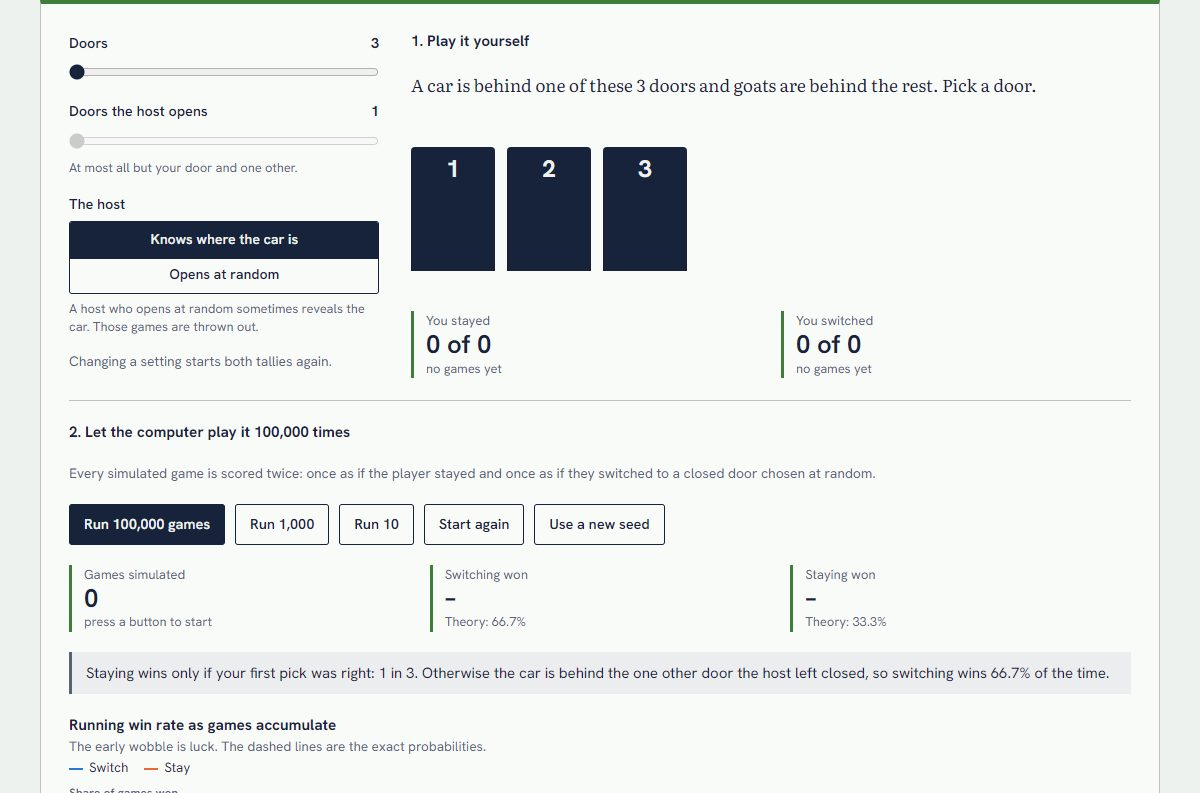
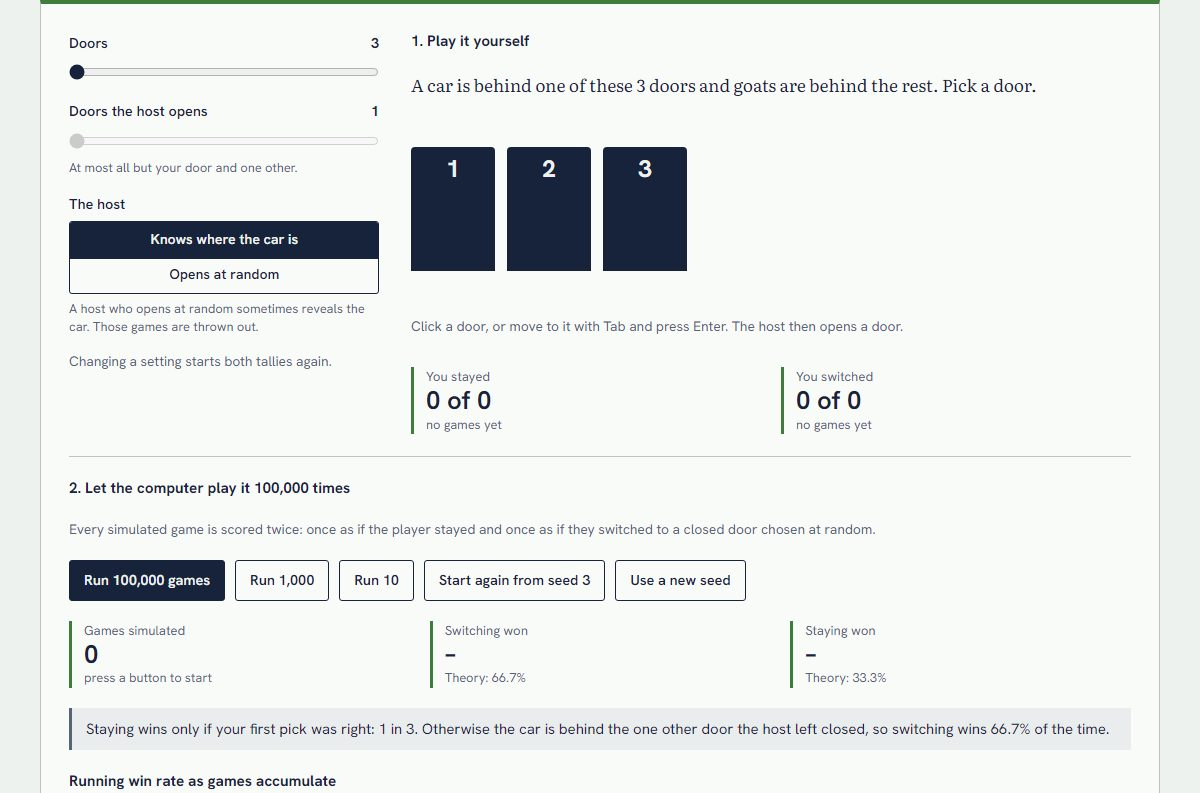
Review project 3: exact margins, clearer Bayes derivation, sourced letter counts

diff --git a/365projects/3/app.js b/365projects/3/app.js
@@ -40,11 +40,12 @@ function settingsChanged() {
 }
 
 /* ---------- the game by hand ---------- */
-const doorRow = el("div", { class: "doors", role: "group", "aria-label": "Doors" });
+const doorRow = el("div", { class: "doors", role: "group", "aria-label": "The doors in the game" });
 const prompt = el("p", { class: "prompt", role: "status", "aria-live": "polite" });
 const stayBtn = button("Stay", () => act(state.game.pick));
 const swapBtn = button("Switch", () => act(alternatives(state.game)[0]));
-const againBtn = button("Play again", () => deal(), { primary: true });
+const againBtn = button("Play again", () => { deal(); focusGame(); }, { primary: true });
+const pickHint = el("span", { class: "small muted", text: "Click a door, or move to it with Tab and press Enter. The host then opens a door." });
 const handStay = stat("You stayed");
 const handSwap = stat("You switched");
 
@@ -62,6 +63,17 @@ function act(door) {
     else { state.hand[now.strategy].games++; if (now.result === "win") state.hand[now.strategy].wins++; }
   }
   drawGame();
+  focusGame();
+}
+// Every move redraws the doors and hides the button just used, which would drop keyboard focus on the floor.
+// Put it on the next thing to do instead: a door, the stay button, or "Play again". With several doors left to
+// switch to, the choice is made on the doors, so focus stays on the one picked and the stay button follows them.
+function focusGame() {
+  const g = state.game;
+  const next = g.phase === "pick" ? doorRow.querySelector("button")
+    : g.phase === "done" ? againBtn
+      : alternatives(g).length === 1 ? stayBtn : doorRow.children[g.pick];
+  next.focus();
 }
 
 function drawGame() {
@@ -83,7 +95,7 @@ function drawGame() {
       "aria-label": `Door ${d + 1}${opened ? `, open: ${label.toLowerCase()}` : ", closed"}${tags.length ? `, ${tags.join(", ")}` : ""}`,
       onclick: () => act(d),
     },
-      el("span", { class: "num", text: String(d + 1) }),
+      el("span", { class: "door-num", text: String(d + 1) }),
       el("span", { class: "behind", text: label }),
       el("span", { class: "tag", text: tags.join(" · ") }));
   }));
@@ -92,15 +104,16 @@ function drawGame() {
   else if (g.phase === "decide") {
     const opened = g.open.map((d) => d + 1).join(", ");
     prompt.textContent = `You picked door ${g.pick + 1}. The host opened door${g.open.length > 1 ? "s" : ""} ${opened}: ${g.open.length > 1 ? "goats" : "a goat"}. `
-      + (alts.length === 1 ? `Stay with door ${g.pick + 1}, or switch to door ${alts[0] + 1}?` : `Stay with door ${g.pick + 1}, or click another closed door to switch to it.`);
+      + (alts.length === 1 ? `Stay with door ${g.pick + 1}, or switch to door ${alts[0] + 1}?` : `Stay with door ${g.pick + 1}, or choose another closed door to switch to it.`);
   } else if (g.result === "void") prompt.textContent = `The host opened door${g.open.length > 1 ? "s" : ""} ${g.open.map((d) => d + 1).join(", ")} at random and revealed the car. This game does not count.`;
   else prompt.textContent = `You ${g.strategy === "stay" ? "stayed" : "switched"} and ${g.result === "win" ? "won the car" : "got a goat"}. The car was behind door ${g.car + 1}.`;
 
   stayBtn.hidden = swapBtn.hidden = g.phase !== "decide";
   swapBtn.disabled = alts.length !== 1;
-  swapBtn.textContent = alts.length === 1 ? `Switch to door ${alts[0] + 1}` : "Switch (click a door)";
+  swapBtn.textContent = alts.length === 1 ? `Switch to door ${alts[0] + 1}` : "Switch (choose a door)";
   stayBtn.textContent = g.pick != null ? `Stay with door ${g.pick + 1}` : "Stay";
   againBtn.hidden = !done;
+  pickHint.hidden = g.phase !== "pick";
 
   const line = (s) => (s.games ? `${fmt.pct(s.wins / s.games, 0)} won` : "no games yet");
   handStay.set(`${s2(state.hand.stay)}`, line(state.hand.stay));
@@ -115,7 +128,9 @@ const sStay = stat("Staying won");
 const simNote = el("div");
 const chartBox = el("div");
 const seedLine = el("span", { class: "small muted" });
-const progress = el("span", { class: "small muted", role: "status" });
+const progress = el("span", { class: "small muted" });
+// Spoken once when a run starts and once when it ends. The visible counter changes twenty times a second.
+const simStatus = el("p", { class: "sr-only", role: "status" });
 
 const plot = chart(chartBox, { series: [], height: 300 });
 
@@ -126,11 +141,12 @@ function resetSimulation(seed) {
   state.seed = seed;
   state.sim = rng(seed);
   state.tally = emptyTally();
+  simStatus.textContent = "";
   drawSimulation();
 }
 function queue(n) {
   state.queued += n;
-  if (!state.timer) pump();
+  if (!state.timer) { simStatus.textContent = `Running ${fmt.int(state.queued)} games.`; pump(); }
 }
 function pump() {
   state.timer = 0;
@@ -140,6 +156,12 @@ function pump() {
   state.queued -= n;
   drawSimulation();
   if (state.queued > 0) state.timer = setTimeout(pump, 30);
+  else {
+    const t = state.tally;
+    simStatus.textContent = t.games
+      ? `Done. ${fmt.int(t.games)} games counted${t.voided ? `, ${fmt.int(t.voided)} thrown out` : ""}. Switching won ${fmt.pct(t.swapWins / t.games, 1)} and staying won ${fmt.pct(t.stayWins / t.games, 1)}.`
+      : `Done. All ${fmt.int(t.voided)} games were thrown out.`;
+  }
 }
 
 function drawSimulation() {
@@ -150,26 +172,32 @@ function drawSimulation() {
   seedLine.textContent = `Random seed ${state.seed}. The same seed always gives the same games.`;
   sGames.set(fmt.int(total), t.voided ? `${fmt.int(t.games)} counted, ${fmt.int(t.voided)} thrown out` : total ? "all counted" : "press a button to start");
   const rate = (wins) => (t.games ? wins / t.games : NaN);
-  const line = (wins, expected) => (t.games ? `${fmt.int(wins)} wins, ± ${fmt.pct(margin(rate(wins), t.games), 1)}. Theory: ${fmt.pct(expected, 1)}` : `Theory: ${fmt.pct(expected, 1)}`);
+  // The margin is the one in the write-up: how far 95% of runs of this length land from the exact probability.
+  const line = (wins, expected) => (t.games ? `${fmt.int(wins)} wins. Theory: ${fmt.pct(expected, 1)} ± ${fmt.num(100 * margin(expected, t.games), 1)} points` : `Theory: ${fmt.pct(expected, 1)}`);
   sSwap.set(t.games ? fmt.pct(rate(t.swapWins), 2) : "–", line(t.swapWins, th.swap));
   sStay.set(t.games ? fmt.pct(rate(t.stayWins), 2) : "–", line(t.stayWins, th.stay));
 
   const same = Math.abs(th.swap - th.stay) < 1e-12;
+  // Two end labels need about six percentage points between them on this scale, or they print on top of each other.
+  const apart = t.games > 0 && Math.abs(rate(t.swapWins) - rate(t.stayWins)) >= 0.07;
   simNote.replaceChildren(state.config.host === "random"
     ? note("", `With a host who opens at random, the ${fmt.pct(1 - th.valid, 0)} of games where the car is revealed are discarded. In the rest, switching and staying win equally often (${fmt.pct(th.swap, 1)} each): the host's knowledge was what made switching better.`)
     : note("", `Staying wins only if your first pick was right: 1 in ${state.config.doors}. Otherwise the car is behind ${state.config.doors - 1 - state.config.opened === 1 ? "the one other door" : `one of the ${state.config.doors - 1 - state.config.opened} other doors`} the host left closed, so switching wins ${fmt.pct(th.swap, 1)} of the time.`));
 
+  // Before any games the chart prints its "run some games" line at mid-height: leave out a dashed line that would cross it.
+  const marks = (same ? [{ type: "hline", y: th.swap, text: `theory ${fmt.pct(th.swap, 1)}` }]
+    : [{ type: "hline", y: th.swap, text: `switch: ${fmt.pct(th.swap, 1)}` }, { type: "hline", y: th.stay, text: `stay: ${fmt.pct(th.stay, 1)}` }])
+    .filter((m) => t.games > 0 || Math.abs(m.y - 0.5) >= 0.08);
   plot.update({
     title: "Running win rate as games accumulate",
-    subtitle: "The early wobble is luck. The dashed lines are the exact probabilities.",
+    subtitle: ["The early wobble is luck.", "The early wobble is luck. The dashed line is an exact probability.", "The early wobble is luck. The dashed lines are the exact probabilities."][marks.length],
     x: { label: "Games played (log scale)", type: "log", domain: [1, Math.max(100, t.games)], format: (v) => fmt.compact(v) },
     y: { label: "Share of games won", domain: [0, 1], format: (v) => fmt.pct(v, 0) },
     series: [
-      { name: "Switch", data: t.trail.map((p) => [p.n, p.swap]), color: 0, endLabel: t.games ? `Switch ${fmt.pct(rate(t.swapWins), 1)}` : false },
-      { name: "Stay", data: t.trail.map((p) => [p.n, p.stay]), color: 1, endLabel: t.games ? `Stay ${fmt.pct(rate(t.stayWins), 1)}` : false },
+      { name: "Switch", data: t.trail.map((p) => [p.n, p.swap]), color: 0, endLabel: apart ? `Switch ${fmt.pct(rate(t.swapWins), 1)}` : false },
+      { name: "Stay", data: t.trail.map((p) => [p.n, p.stay]), color: 1, endLabel: apart ? `Stay ${fmt.pct(rate(t.stayWins), 1)}` : false },
     ],
-    marks: same ? [{ type: "hline", y: th.swap, text: `theory ${fmt.pct(th.swap, 1)}` }]
-      : [{ type: "hline", y: th.swap, text: `switch: ${fmt.pct(th.swap, 1)}` }, { type: "hline", y: th.stay, text: `stay: ${fmt.pct(th.stay, 1)}` }],
+    marks,
     empty: "Run some games to see the rates converge",
     table: t.trail.length > 0,
   });
@@ -183,7 +211,7 @@ $("#app").append(
     el("div", { class: "out" },
       el("h2", { text: "1. Play it yourself" }),
       prompt, doorRow,
-      el("div", { class: "row" }, stayBtn, swapBtn, againBtn),
+      el("div", { class: "row actions" }, pickHint, stayBtn, swapBtn, againBtn),
       el("div", { class: "stats" }, handStay.el, handSwap.el))),
   el("div", { class: "out sim" },
     el("h2", { text: "2. Let the computer play it 100,000 times" }),
@@ -192,10 +220,10 @@ $("#app").append(
       button("Run 100,000 games", () => queue(100000), { primary: true }),
       button("Run 1,000", () => queue(1000)),
       button("Run 10", () => queue(10)),
-      button("Start again", () => resetSimulation(DEFAULT_SEED)),
+      button(`Start again from seed ${DEFAULT_SEED}`, () => resetSimulation(DEFAULT_SEED)),
       button("Use a new seed", () => resetSimulation(randomSeed() % 100000)),
       progress),
-    el("div", { class: "stats" }, sGames.el, sSwap.el, sStay.el),
+    el("div", { class: "stats" }, sGames.el, sSwap.el, sStay.el), simStatus,
     simNote, chartBox, seedLine));
 
 openSlider.input.disabled = true;

diff --git a/365projects/3/index.html b/365projects/3/index.html
@@ -17,7 +17,7 @@
       position: relative; width: 84px; height: 124px; padding: 8px 4px; border: 2px solid var(--ink); border-radius: 4px 4px 0 0;
       background: var(--ink); color: var(--paper); cursor: pointer; display: grid; grid-template-rows: auto 1fr auto; justify-items: center;
     }
-    .door .num { font: 700 1.5rem/1 var(--sans); }
+    .door .door-num { font: 700 1.5rem/1 var(--sans); }
     .door .behind { align-self: center; font: 700 0.95rem/1 var(--sans); letter-spacing: 0.04em; text-transform: uppercase; }
     .door .tag { font-size: 0.68rem; line-height: 1.15; min-height: 1.2em; text-align: center; }
     .door:hover:not(:disabled) { background: color-mix(in srgb, var(--ink) 82%, var(--paper)); }
@@ -26,8 +26,9 @@
     .door.open.car { color: var(--ink); border-style: solid; background: color-mix(in srgb, var(--good) 16%, #fff); }
     .door.picked { box-shadow: 0 0 0 3px var(--paper), 0 0 0 6px var(--h, var(--focus)); }
     .door.final:not(.picked) { box-shadow: 0 0 0 3px var(--paper), 0 0 0 6px var(--ink); }
+    .actions { min-height: 56px; } /* keeps the page from jumping when the buttons come and go */
     .sim { border-top: 1px solid var(--rule); padding-top: 22px; }
-    @media (max-width: 480px) { .door { width: 64px; height: 104px; } }
+    @media (max-width: 480px) { .door { width: 64px; height: 104px; } .prompt { min-height: 4.6em; } }
   </style>
 </head>
 <body class="proj" data-day="3">
@@ -49,7 +50,7 @@
     <section class="p-sec">
       <h2>The idea</h2>
       <p>You pick one of three doors. The host, who knows where the car is, opens one of the other two to show a goat, and offers you the chance to switch. Two doors are left, so it feels like an even bet, and most people stay. They are wrong: switching wins two times in three.</p>
-      <p>The puzzle was posed by the statistician Steve Selvin in 1975 and became famous in 1990, when Marilyn vos Savant gave the correct answer in her <em>Parade</em> column and received thousands of letters, many from people with doctorates, telling her she had made a mistake. It is a reliable demonstration that intelligent people reason badly about conditional probability, and that a simulation can persuade where an argument does not.</p>
+      <p>The puzzle was posed by the statistician Steve Selvin in 1975 and became famous in 1990, when Marilyn vos Savant gave the correct answer in her <em>Parade</em> column. By her own estimate she received about 10,000 letters, most of them telling her she had made a mistake, and close to 1,000 of the critical ones were signed by people with doctorates. It is a reliable demonstration that intelligent people reason badly about conditional probability, and that a simulation can persuade where an argument does not.</p>
       <p>What makes it a problem about <strong>rational choice under uncertainty</strong> is the question of what counts as evidence. The open door looks like it tells you nothing: you already knew one of the other doors hid a goat. But the host's choice was constrained by where the car is, and a constrained action leaks information. The second setting on this page makes the point by removing the constraint: a host who opens a door at random, and merely happens to show a goat, tells you nothing useful, and the odds really are even.</p>
     </section>
 
@@ -61,16 +62,17 @@
       <h3>The same result from Bayes' theorem</h3>
       <p>Say you pick door 1 and the host opens door 2. If the car is behind door 1, he could have opened 2 or 3, and opens 2 half the time. If it is behind door 3, he had to open 2. If it is behind door 2, he could not have opened it. Each door starts with probability 1/3, so</p>
       <p class="eq"><var>P</var>(car at 3 | host opens 2) = (1 · ⅓) / (½ · ⅓ + 0 · ⅓ + 1 · ⅓) = 2/3</p>
-      <p>For the host who opens at random, the middle term changes: with the car behind door 3 he opens door 2 only half the time, the same as when it is behind door 1. The two likelihoods are equal, so the evidence favours neither door and the answer is 1/2.</p>
+      <p>For the host who opens at random, the last term changes: with the car behind door 3 he opens door 2 only half the time, the same as when it is behind door 1. (With the car behind door 2 he may well open it, but then you see the car, not a goat, so that case still counts for nothing.) The two likelihoods are equal, so the evidence favours neither door and the answer is 1/2.</p>
       <h3>More doors</h3>
       <p>With <var>N</var> doors, of which a knowing host opens <var>m</var>, staying still wins with probability 1/<var>N</var>. The other (<var>N</var> − 1)/<var>N</var> is shared equally among the <var>N</var> − 1 − <var>m</var> doors he left closed:</p>
       <p class="eq"><var>P</var>(switch wins) = (<var>N</var> − 1) / (<var>N</var> · (<var>N</var> − 1 − <var>m</var>))</p>
-      <p>Set ten doors with eight opened and switching wins nine times in ten, which is the version that convinces most people: the host has walked past the car's door on purpose.</p>
+      <p>That is the chance of winning by switching to one of those doors, chosen at random as the simulation does. Set ten doors with eight opened and switching wins nine times in ten, which is the version where the logic is easiest to see: the host has walked past the car's door on purpose.</p>
+      <p>A host who opens <var>m</var> of the other doors at random shows the car in <var>m</var>/<var>N</var> of games. In the rest, nothing distinguishes the <var>N</var> − <var>m</var> doors still closed, so staying and switching each win with probability 1/(<var>N</var> − <var>m</var>).</p>
       <h3>The simulation</h3>
       <p>Each simulated game places the car at random, makes a random first pick, has the host open doors according to the rule you chose, and then scores the game twice: once for staying and once for switching to a random closed door. The random numbers come from a seeded generator (mulberry32), so the same seed replays the same 100,000 games.</p>
       <p>By the law of large numbers the share of wins approaches the true probability. How close it gets is given by the standard error: for a true probability <var>p</var> after <var>n</var> games, about 95% of runs land within</p>
       <p class="eq">± 1.96 · √(<var>p</var>(1 − <var>p</var>) / <var>n</var>)</p>
-      <p>which is ± 9 percentage points after 100 games, ± 0.9 after 10,000 and ± 0.3 after 100,000. The chart uses a log scale for the number of games so the early wobble and the late calm are both visible.</p>
+      <p>With <var>p</var> = 2/3 that is ± 9 percentage points after 100 games, ± 0.9 after 10,000 and ± 0.3 after 100,000. This is the margin printed beside each theoretical value under the buttons. The chart uses a log scale for the number of games so the early wobble and the late calm are both visible.</p>
     </section>
 
     <section class="p-sec">
@@ -78,8 +80,8 @@
       <ul>
         <li><strong>What to do on a real game show.</strong> The 2/3 answer needs a host who knows where the car is, always opens a goat door and always offers the switch. A host free to offer the switch only when your first pick was right would make switching a certain loss. The rules are doing the work, and the puzzle as usually told leaves them unstated.</li>
         <li><strong>Why the answer is 2/3.</strong> A simulation shows that something is so. The reason is in the counting argument above. 100,000 games are evidence, not a proof.</li>
-        <li><strong>Much from your own games.</strong> Ten games by hand have a margin of error of about 30 percentage points. Winning three in a row by staying is unremarkable.</li>
-        <li><strong>Why people stay.</strong> The pull towards staying has more to do with regret than arithmetic: losing after switching away from the right door feels worse than losing by standing still. That is a question for the behavioural experiments from Day 146 onwards.</li>
+        <li><strong>Much from your own games.</strong> Ten games by hand have a margin of error of about 30 percentage points. Staying and winning twice running happens one time in nine.</li>
+        <li><strong>Why people stay.</strong> In Granberg and Brown's experiments only 12% of people switched the first time they met the problem, and people said they would feel more frustrated and angry if they switched and lost. Whether the pull is regret, attachment to a first choice or plain miscounting is a question for the behavioural experiments from Day 146 onwards, not for a simulation.</li>
         <li><strong>Anything about hosts with preferences.</strong> If the host has a favourite door when he has a choice, which door he opens carries extra information and the odds for a particular game move away from 2/3. This page assumes he chooses evenly.</li>
       </ul>
     </section>
@@ -100,6 +102,8 @@
       <ul class="refs">
         <li>Selvin, S. (1975). A problem in probability (letter to the editor). <em>The American Statistician</em>, 29(1), 67.</li>
         <li>vos Savant, M. (1990). Ask Marilyn. <em>Parade</em>, 9 September 1990.</li>
+        <li>Tierney, J. (1991). Behind Monty Hall's doors: puzzle, debate and answer? <em>The New York Times</em>, 21 July 1991. The source for the letters vos Savant received.</li>
+        <li>Granberg, D., and Brown, T. A. (1995). The Monty Hall dilemma. <em>Personality and Social Psychology Bulletin</em>, 21(7), 711-723.</li>
         <li>Gill, R. D. (2011). The Monty Hall problem is not a probability puzzle (it's a challenge in mathematical modelling). <em>Statistica Neerlandica</em>, 65(1), 58-71.</li>
       </ul>
     </section>
